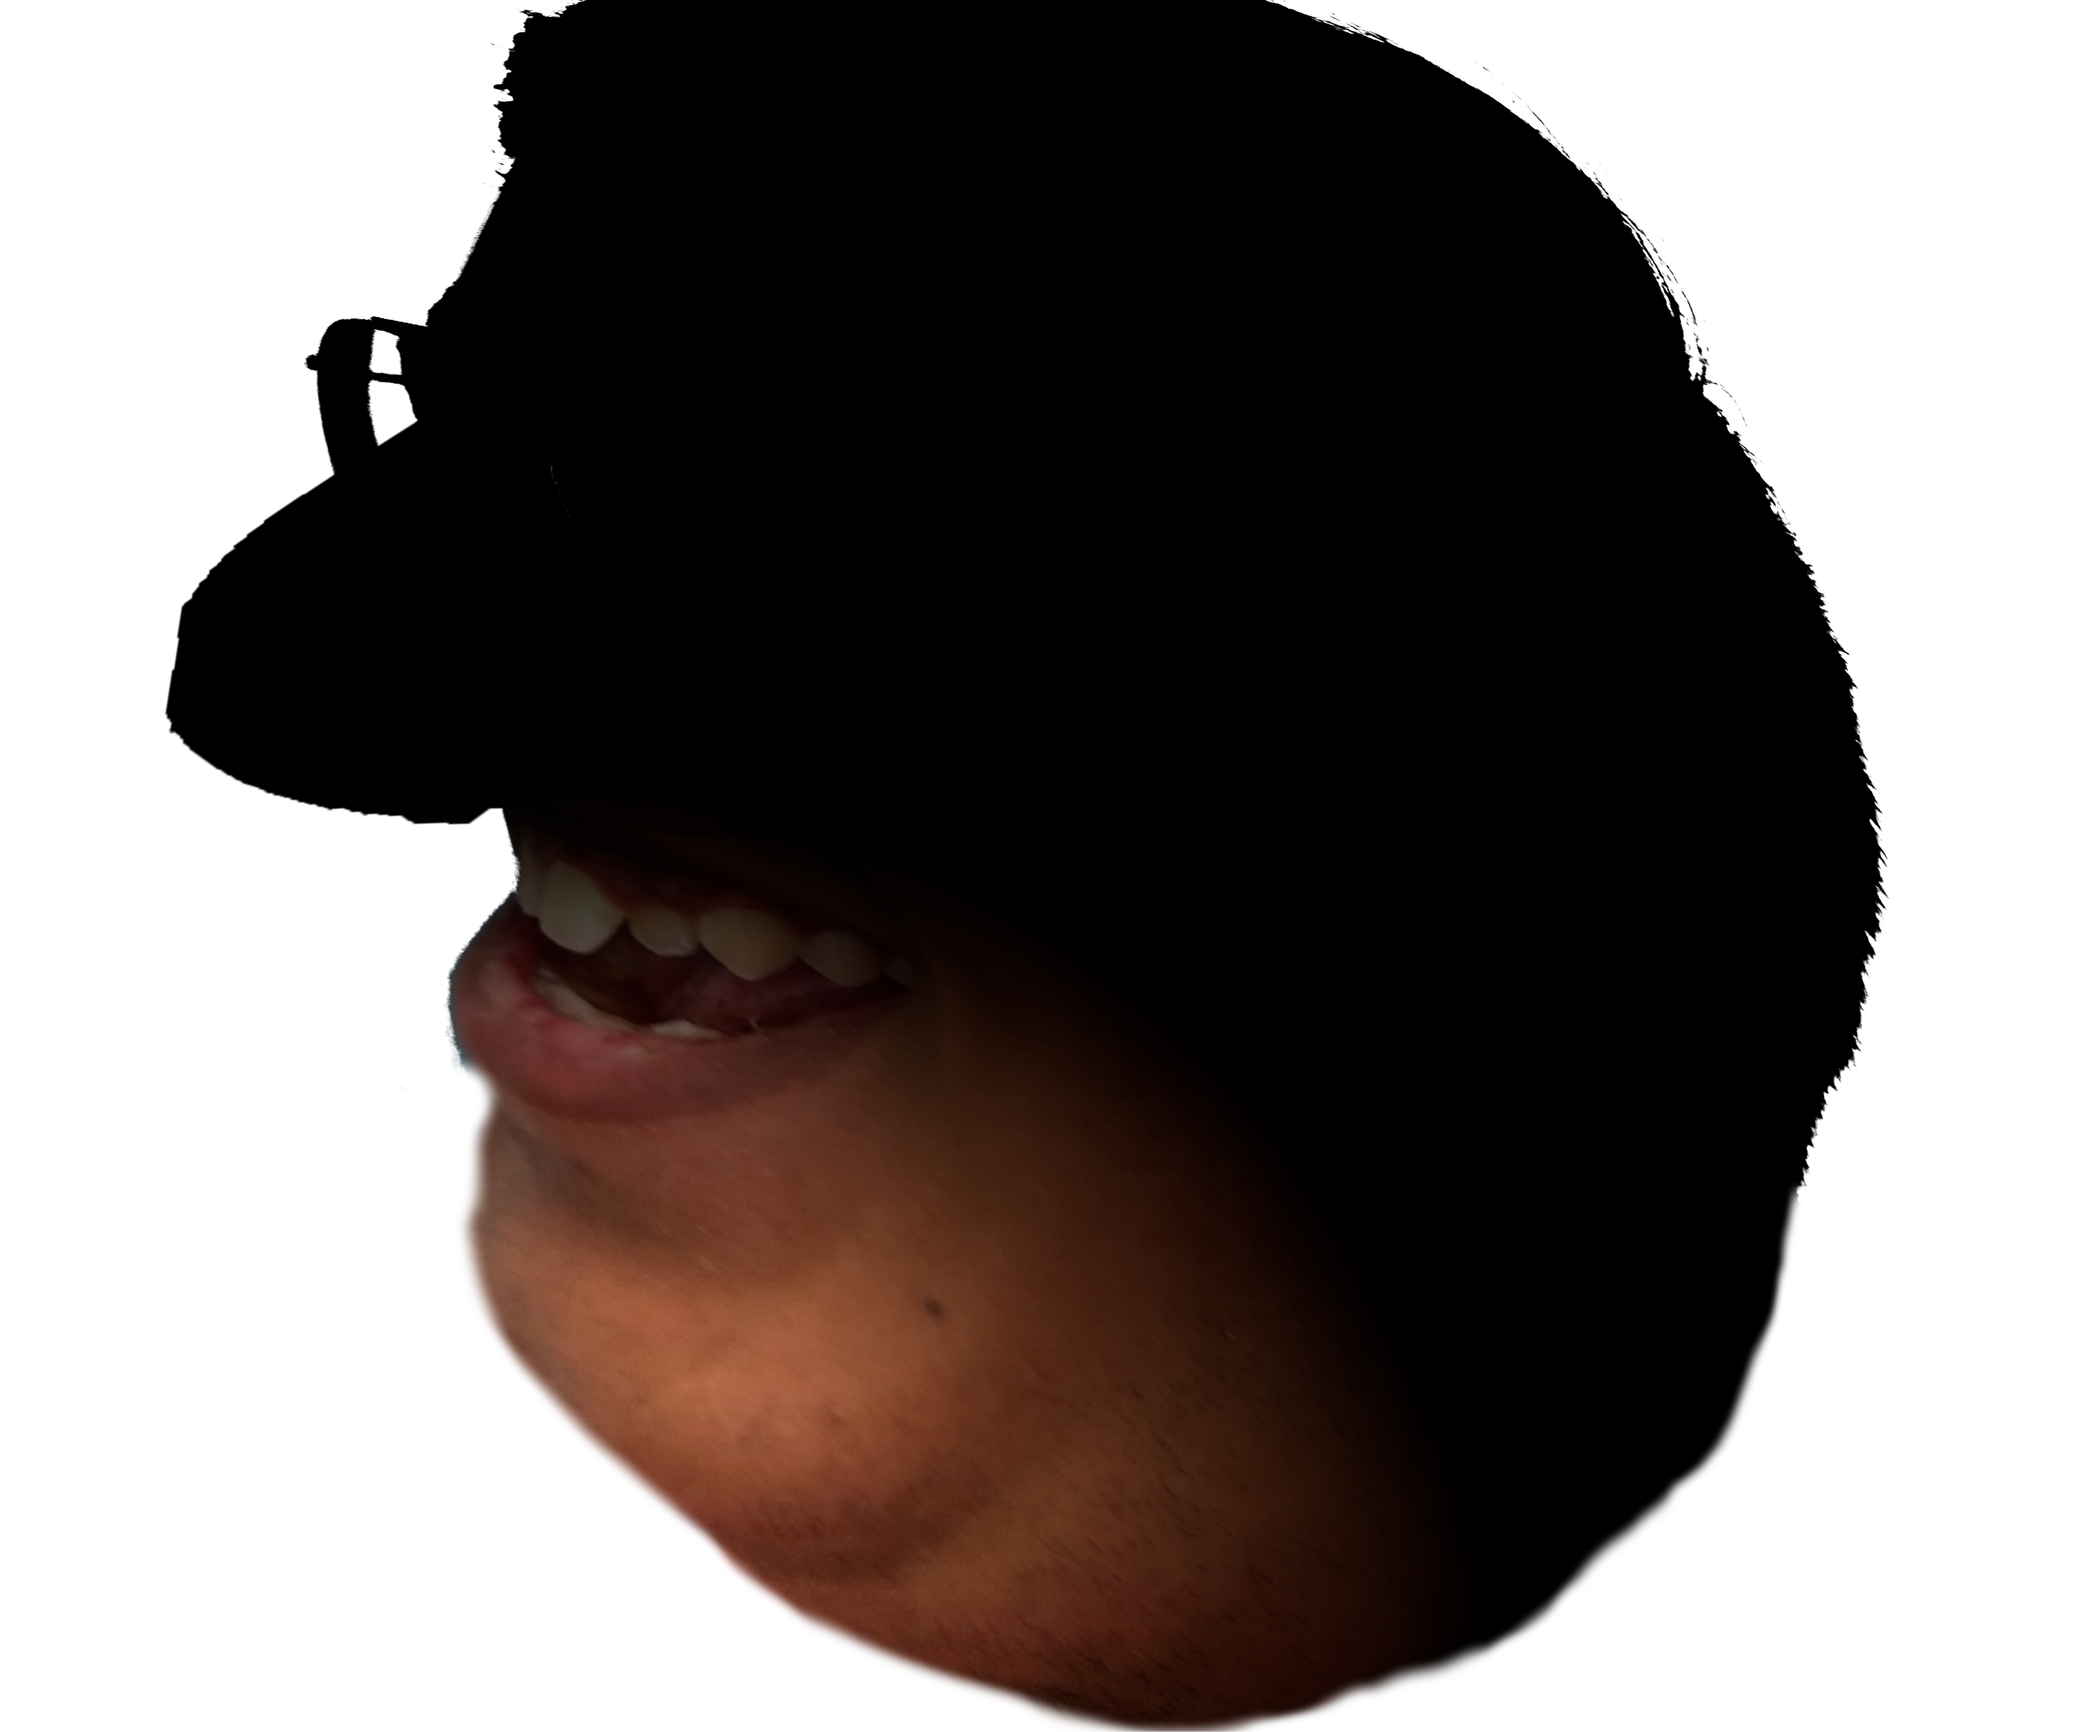
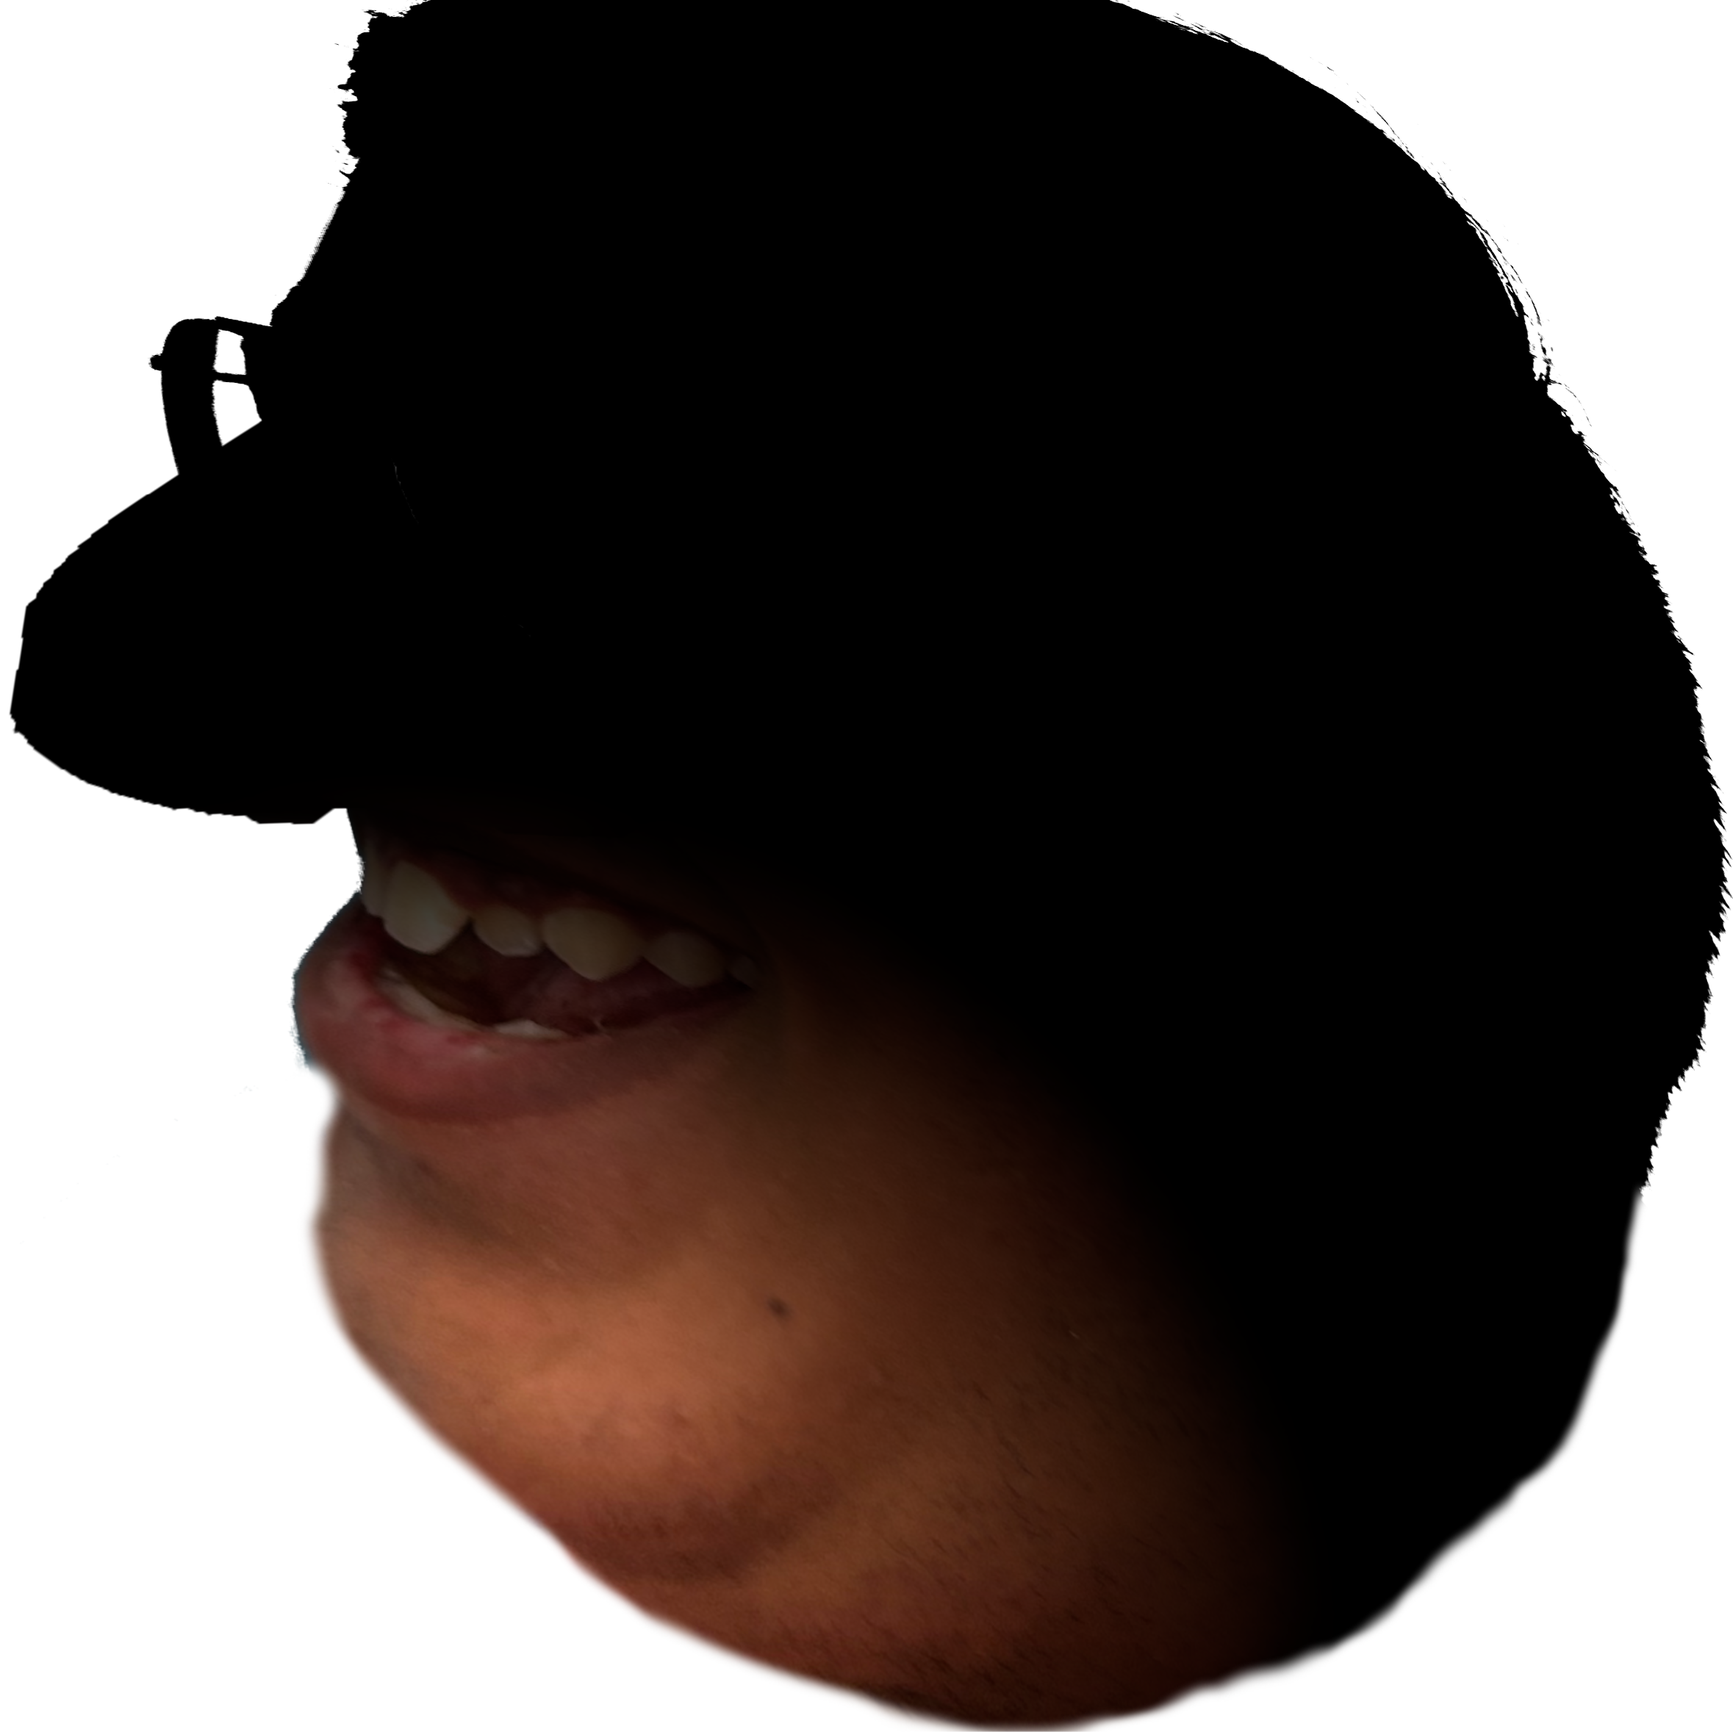
Refactored resolution, added sprites and more
Naufil is now an extension of the abstract class (woohoo, implementation works!). Screen resolution is also now a global variable (for future patches), now set to accept 200x200 sprites and 1920x1080 monitors. Finally, repacked all images into 200x200 sprites.

Changed region(s): [[0.4644, 0.0, 1.0, 1.0], [0.0, 0.0, 0.3715, 0.9291], [0.3715, 0.9291, 0.4334, 0.9601]]

diff --git a/src/Character.java b/src/Character.java
@@ -1,27 +1,30 @@
 import java.awt.*;
 import java.awt.event.KeyEvent;
 
-public class Entity2 {
-    private int x = 300;
-    private int y = 300;
+public abstract class Character {
+    private boolean left = false, right = false;
+    protected int x = 600;
+    protected int y = 300;
     private double xv = 0;
     private double yv = 0;
     private double xa = 0;
-    private double ya = 0;
-    private int speedCap = 10;
-    private int jumpCount = 0; //int not boolean for possible future double+ jump support
+    private double ya = -1.5;
+    private int speedCap = 20;
+    private int jumpCount = 0;
 
     public void keyPressed(KeyEvent e){
-        if (e.getKeyCode() == KeyEvent.VK_A){
-            xa = -5;
+        if (e.getKeyCode() == KeyEvent.VK_LEFT){
+            left = true;
+            //xa = -5;
         }
-        if (e.getKeyCode() == KeyEvent.VK_D){
-            xa = 5;
+        if (e.getKeyCode() == KeyEvent.VK_RIGHT){
+            right = true;
+            //xa = 5;
         }
-        if (e.getKeyCode() == KeyEvent.VK_W){
+        if (e.getKeyCode() == KeyEvent.VK_UP){
             if (jumpCount < 2) {
                 jumpCount++;
-                yv = 15;
+                yv = 30;
             }
             //ya = 1;
         }
@@ -30,13 +33,14 @@ public class Entity2 {
         }
     }
     public void keyReleased(KeyEvent e){
-        if (e.getKeyCode() == KeyEvent.VK_A){
+        if (e.getKeyCode() == KeyEvent.VK_LEFT){
+            left = false;
+        }
+        if (e.getKeyCode() == KeyEvent.VK_RIGHT){
+            right = false;
             xa = 0;
         }
-        if (e.getKeyCode() == KeyEvent.VK_D){
-            xa = 0;
-        }
-        if (e.getKeyCode() == KeyEvent.VK_W){
+        if (e.getKeyCode() == KeyEvent.VK_UP){
             //ya = 0;
         }
         if (e.getKeyCode() == KeyEvent.VK_DOWN){
@@ -46,6 +50,17 @@ public class Entity2 {
 
 
     public void move() {
+        //understand that this can be hardcoded directly to +/- to speed, but doing xa for clarity
+        if (left && right) {
+            xa = 0;
+        } else if (left) {
+            xa = -5;
+        } else if (right) {
+            xa = 5;
+        } else {
+            xa = 0;
+        }
+
         //speedcaps first
         if (xv < speedCap && xv > -speedCap) { //speed cap of 10
             xv += xa;
@@ -54,21 +69,22 @@ public class Entity2 {
         } else if (xv <= -speedCap) { //backwards speed cap
             xv += 1;
         }
-        if (yv < speedCap && yv > -speedCap) {
-            yv += ya; //hardcoded to apply gravity when not on ground
-            if (y < 580) {
-                yv -= 0.5;
+        if (yv < speedCap + 10 && yv > -speedCap - 10) {
+            //yv += ya; //hardcoded to apply gravity when not on ground
+            if (y < Window.resY - 50 - 200) {
+                ya = -1.5;
+                yv += ya;
             }
-        } else if (yv >= speedCap) { //if above speed cap, decelerate
+        } else if (yv >= speedCap + 10) { //vertical speed cap; has a little extra for fun
             yv -= 1;
-        } else if (yv <= -speedCap) { //backwards speed cap
+        } else if (yv <= -speedCap - 10) {
             yv += 1;
         }
 
         x += xv;
         //below are bounds checks (see if in bounds, if not, reset position to border and invert velocity
-        if (x > 990) { //right border
-            x = 990;
+        if (x > Window.resX - 200) { //right border
+            x = Window.resX - 200;
             xv = -0.75 * xv; //bounce inelastically when you hit the border
             System.out.println("right bounce");
         } else if (x < 0) {
@@ -77,8 +93,8 @@ public class Entity2 {
             System.out.println("left bounce");
         }
         y -= yv;
-        if (y > 580) { //height of windows bar ~= 50px
-            y = 580;
+        if (y > Window.resY - 50 - 200) { //height of windows bar ~= 50px
+            y = Window.resY - 50 - 200;
             ya = 0;
             yv = -0.5 * yv;
             if (yv <= 4) {
@@ -92,7 +108,7 @@ public class Entity2 {
             yv = -0.5 * yv;
             System.out.println("top bounce");
         }
-        if (y >= 575) {
+        if (y >= Window.resY - 55 - 200) {
             friction();
         }
         //friction, constantly decelerating at 0.1
@@ -115,9 +131,7 @@ public class Entity2 {
         }
     }
 
-    public void paint (Graphics2D g2d) {
-        g2d.setColor(Color.RED);
-        g2d.fillRect(x, y, 20, 20);
+    public void paint (Graphics2D g2d) { //holding out temporarily
         move();
     }
 }

diff --git a/src/Window.java b/src/Window.java
@@ -10,7 +10,8 @@ import javax.sound.sampled.UnsupportedAudioFileException;
 
 
 public class Window extends JPanel {
-    Entity e1 = new Entity();
+    Naufil n1 = new Naufil();
+    public static final int resX = 1920, resY = 1080;
 
     public Window(){
         addKeyListener(new KeyListener() {
@@ -19,11 +20,11 @@ public class Window extends JPanel {
             }
             @Override
             public void keyReleased(KeyEvent e) {
-                e1.keyReleased(e);
-            }
+                n1.keyReleased(e);
+            } //problem: have to know what classes to send keypresses to
             @Override
             public void keyPressed(KeyEvent e) {
-                e1.keyPressed(e);
+                n1.keyPressed(e);
             }
         });
         setFocusable(true);
@@ -31,14 +32,14 @@ public class Window extends JPanel {
 
     public void paint(Graphics g){
         Graphics2D g2d = (Graphics2D) g;
-        e1.paint(g2d);
+        n1.paint(g2d);
     }
 
     public static void main(String[] args) throws InterruptedException {
         JFrame frame = new JFrame("HeadHunters");
         Window win = new Window();
         frame.add(win);
-        frame.setSize(1020, 640);
+        frame.setSize(resX, resY);
         frame.setVisible(true);
         frame.setResizable(true);
         frame.setLocationRelativeTo(null);

diff --git a/src/Naufil.java b/src/Naufil.java
@@ -1,0 +1,23 @@
+import java.awt.*;
+import java.awt.image.BufferedImage;
+import javax.imageio.*;
+import java.io.*;
+
+public class Naufil extends Character {
+    private boolean isInitialized = false;
+    private BufferedImage neutral = null;
+
+
+    public void paint(Graphics2D g2d){
+        if (!isInitialized) { //loads naufil pics into memory on first frame
+            try {
+                neutral = ImageIO.read(new File("res\\Sprites\\NaufilNeutral.PNG"));
+            } catch (IOException e) {
+                System.out.println("Missing Naufil Image: " + e);
+            }
+            isInitialized = true;
+        }
+        g2d.drawImage(neutral, x, y, null);
+        move();
+    }
+}
